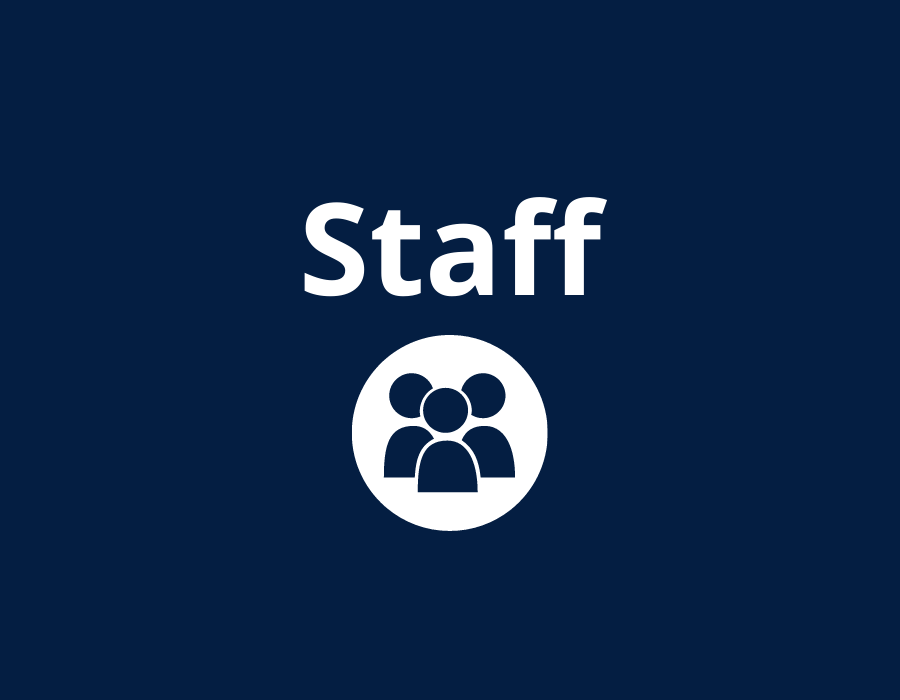
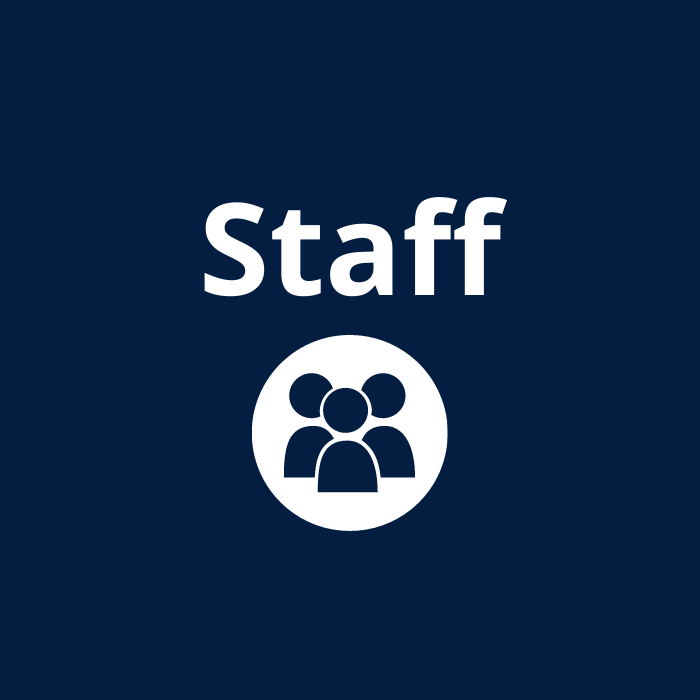
Fix stretching on directory buttons

Changed region(s): [[0.27, 0.27, 0.72, 0.42], [0.51, 0.48, 0.66, 0.75], [0.36, 0.48, 0.48, 0.75]]

diff --git a/Display test/Form1.Designer.cs b/Display test/Form1.Designer.cs
@@ -326,13 +326,13 @@ namespace Display_test
             this.tlpDirectory.BackgroundImage = global::Display_test.Properties.Resources.Untitled_design__1_;
             this.tlpDirectory.BackgroundImageLayout = System.Windows.Forms.ImageLayout.Stretch;
             this.tlpDirectory.ColumnCount = 7;
-            this.tlpDirectory.ColumnStyles.Add(new System.Windows.Forms.ColumnStyle(System.Windows.Forms.SizeType.Percent, 7.5F));
-            this.tlpDirectory.ColumnStyles.Add(new System.Windows.Forms.ColumnStyle(System.Windows.Forms.SizeType.Percent, 27F));
-            this.tlpDirectory.ColumnStyles.Add(new System.Windows.Forms.ColumnStyle(System.Windows.Forms.SizeType.Percent, 2F));
-            this.tlpDirectory.ColumnStyles.Add(new System.Windows.Forms.ColumnStyle(System.Windows.Forms.SizeType.Percent, 27F));
-            this.tlpDirectory.ColumnStyles.Add(new System.Windows.Forms.ColumnStyle(System.Windows.Forms.SizeType.Percent, 2F));
-            this.tlpDirectory.ColumnStyles.Add(new System.Windows.Forms.ColumnStyle(System.Windows.Forms.SizeType.Percent, 27F));
-            this.tlpDirectory.ColumnStyles.Add(new System.Windows.Forms.ColumnStyle(System.Windows.Forms.SizeType.Percent, 7.5F));
+            this.tlpDirectory.ColumnStyles.Add(new System.Windows.Forms.ColumnStyle(System.Windows.Forms.SizeType.Percent, 6.5F));
+            this.tlpDirectory.ColumnStyles.Add(new System.Windows.Forms.ColumnStyle(System.Windows.Forms.SizeType.Percent, 28F));
+            this.tlpDirectory.ColumnStyles.Add(new System.Windows.Forms.ColumnStyle(System.Windows.Forms.SizeType.Percent, 1.5F));
+            this.tlpDirectory.ColumnStyles.Add(new System.Windows.Forms.ColumnStyle(System.Windows.Forms.SizeType.Percent, 28F));
+            this.tlpDirectory.ColumnStyles.Add(new System.Windows.Forms.ColumnStyle(System.Windows.Forms.SizeType.Percent, 1.5F));
+            this.tlpDirectory.ColumnStyles.Add(new System.Windows.Forms.ColumnStyle(System.Windows.Forms.SizeType.Percent, 28F));
+            this.tlpDirectory.ColumnStyles.Add(new System.Windows.Forms.ColumnStyle(System.Windows.Forms.SizeType.Percent, 6.5F));
             this.tlpDirectory.Controls.Add(this.btnStaff, 1, 1);
             this.tlpDirectory.Controls.Add(this.btnFaculty, 3, 1);
             this.tlpDirectory.Controls.Add(this.btnSearch, 5, 1);
@@ -355,9 +355,9 @@ namespace Display_test
             this.btnStaff.BackgroundImageLayout = System.Windows.Forms.ImageLayout.Stretch;
             this.btnStaff.Dock = System.Windows.Forms.DockStyle.Fill;
             this.btnStaff.Font = new System.Drawing.Font("Microsoft Sans Serif", 48F, System.Drawing.FontStyle.Regular, System.Drawing.GraphicsUnit.Point, ((byte)(0)));
-            this.btnStaff.Location = new System.Drawing.Point(105, 190);
+            this.btnStaff.Location = new System.Drawing.Point(92, 190);
             this.btnStaff.Name = "btnStaff";
-            this.btnStaff.Size = new System.Drawing.Size(363, 368);
+            this.btnStaff.Size = new System.Drawing.Size(377, 368);
             this.btnStaff.TabIndex = 0;
             this.btnStaff.UseVisualStyleBackColor = true;
             this.btnStaff.Click += new System.EventHandler(this.btnStaff_Click);
@@ -368,9 +368,9 @@ namespace Display_test
             this.btnFaculty.BackgroundImageLayout = System.Windows.Forms.ImageLayout.Stretch;
             this.btnFaculty.Dock = System.Windows.Forms.DockStyle.Fill;
             this.btnFaculty.Font = new System.Drawing.Font("Microsoft Sans Serif", 48F, System.Drawing.FontStyle.Regular, System.Drawing.GraphicsUnit.Point, ((byte)(0)));
-            this.btnFaculty.Location = new System.Drawing.Point(501, 190);
+            this.btnFaculty.Location = new System.Drawing.Point(495, 190);
             this.btnFaculty.Name = "btnFaculty";
-            this.btnFaculty.Size = new System.Drawing.Size(363, 368);
+            this.btnFaculty.Size = new System.Drawing.Size(377, 368);
             this.btnFaculty.TabIndex = 1;
             this.btnFaculty.UseVisualStyleBackColor = true;
             this.btnFaculty.Click += new System.EventHandler(this.btnFaculty_Click);
@@ -381,9 +381,9 @@ namespace Display_test
             this.btnSearch.BackgroundImageLayout = System.Windows.Forms.ImageLayout.Stretch;
             this.btnSearch.Dock = System.Windows.Forms.DockStyle.Fill;
             this.btnSearch.Font = new System.Drawing.Font("Microsoft Sans Serif", 48F, System.Drawing.FontStyle.Regular, System.Drawing.GraphicsUnit.Point, ((byte)(0)));
-            this.btnSearch.Location = new System.Drawing.Point(897, 190);
+            this.btnSearch.Location = new System.Drawing.Point(898, 190);
             this.btnSearch.Name = "btnSearch";
-            this.btnSearch.Size = new System.Drawing.Size(363, 368);
+            this.btnSearch.Size = new System.Drawing.Size(377, 368);
             this.btnSearch.TabIndex = 2;
             this.btnSearch.UseVisualStyleBackColor = true;
             this.btnSearch.Click += new System.EventHandler(this.btnSearch_Click);
@@ -397,7 +397,7 @@ namespace Display_test
             this.pictureBox2.Image = global::Display_test.Properties.Resources.re_sized;
             this.pictureBox2.Location = new System.Drawing.Point(3, 638);
             this.pictureBox2.Name = "pictureBox2";
-            this.pictureBox2.Size = new System.Drawing.Size(465, 108);
+            this.pictureBox2.Size = new System.Drawing.Size(466, 108);
             this.pictureBox2.SizeMode = System.Windows.Forms.PictureBoxSizeMode.AutoSize;
             this.pictureBox2.TabIndex = 4;
             this.pictureBox2.TabStop = false;
@@ -424,12 +424,12 @@ namespace Display_test
             this.AutoSizeMode = System.Windows.Forms.AutoSizeMode.GrowAndShrink;
             this.BackColor = System.Drawing.Color.FromArgb(((int)(((byte)(4)))), ((int)(((byte)(30)))), ((int)(((byte)(66)))));
             this.ClientSize = new System.Drawing.Size(1370, 749);
-            this.Controls.Add(this.tlpDirectory);
             this.Controls.Add(this.btnHome);
             this.Controls.Add(this.btnBack);
             this.Controls.Add(this.lblDebug);
             this.Controls.Add(this.tlpMain);
             this.Controls.Add(this.btnDirectoryBack);
+            this.Controls.Add(this.tlpDirectory);
             this.MaximumSize = new System.Drawing.Size(3840, 2160);
             this.MinimumSize = new System.Drawing.Size(960, 171);
             this.Name = "Form1";
